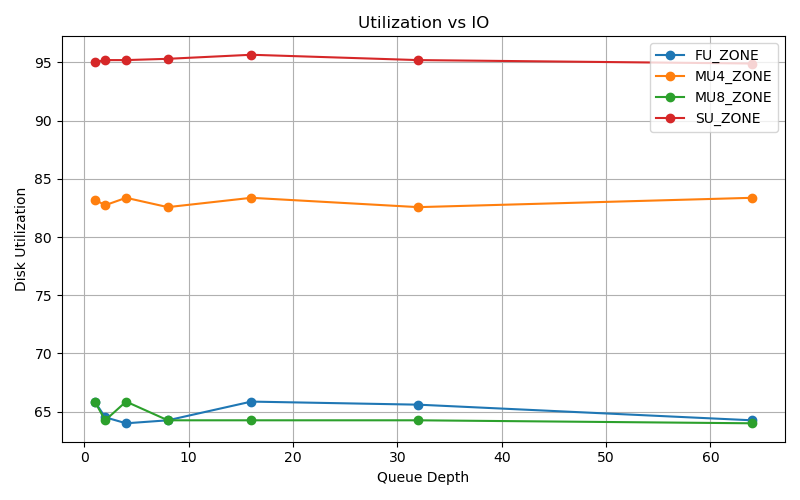
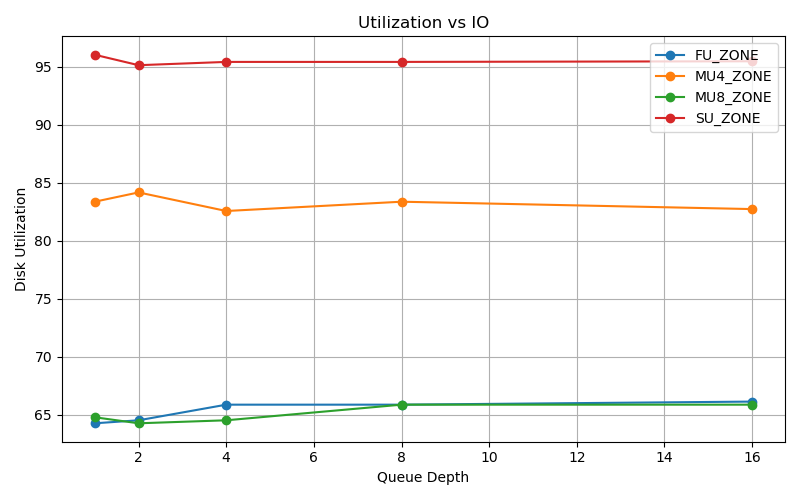
more graphs

diff --git a/scripts/graph_read_latency.py b/scripts/graph_read_latency.py
@@ -1,0 +1,49 @@
+import os
+import json
+import matplotlib.pyplot as plt
+
+BASE_DIR = "../results/csv"
+CONCURRENCY_LEVELS = [1, 2, 4, 8, 16]
+
+GEOMETRIES = ["FU_ZONE", "MU4_ZONE", "MU8_ZONE", "SU_ZONE"]
+MODES = ["rand_read", "seq_read"]
+
+def get_iops_from_file(filepath):
+    with open(filepath) as f:
+        data = json.load(f)
+        return ((data["jobs"][0]["read"]["clat_ns"]["mean"] + data["jobs"][0]["read"]["slat_ns"]["mean"]) / 1000)
+
+def collect_data(mode):
+    results = {}
+    for geometry in GEOMETRIES:
+        dir_name = f"{geometry}-{mode}"
+        full_path = os.path.join(BASE_DIR, dir_name)
+        y_values = []
+        for level in CONCURRENCY_LEVELS:
+            match_prefix = f"{mode}_{level}-"
+            filename = next((f for f in os.listdir(full_path) if f.startswith(match_prefix)), None)
+            if filename:
+                filepath = os.path.join(full_path, filename)
+                y_values.append(get_iops_from_file(filepath))
+            else:
+                y_values.append(0)
+        results[geometry] = y_values
+    return results
+
+def plot_data(results, mode):
+    plt.figure(figsize=(8, 5))
+    for geometry, y_values in results.items():
+        plt.plot(CONCURRENCY_LEVELS, y_values, marker='o', label=geometry)
+    plt.xlabel("Num Jobs")
+    plt.ylabel("Mean Read Latency (μs)")
+    plt.title(f"Read Latency vs Num Jobs")
+    plt.legend()
+    plt.grid(True)
+    plt.tight_layout()
+    plt.savefig(f"read-latency_{mode}.png")
+    plt.show()
+
+if __name__ == "__main__":
+    for mode in MODES:
+        data = collect_data(mode)
+        plot_data(data, mode)

diff --git a/scripts/graph_disk_util_reads.py b/scripts/graph_disk_util_reads.py
@@ -1,0 +1,50 @@
+import os
+import json
+import matplotlib.pyplot as plt
+
+# Second graph script to test disk utilization
+BASE_DIR = "../results/csv"
+CONCURRENCY_LEVELS = [1, 2, 4, 8, 16]
+
+GEOMETRIES = ["FU_ZONE", "MU4_ZONE", "MU8_ZONE", "SU_ZONE"]
+MODES = ["inter", "intra", "rand_read", "seq_read"]
+
+def get_disk_util_from_file(filepath):
+    with open(filepath) as f:
+        data = json.load(f)
+        return data["disk_util"][0]["util"]
+
+def collect_data(mode):
+    results = {}
+    for geometry in GEOMETRIES:
+        dir_name = f"{geometry}-{mode}"
+        full_path = os.path.join(BASE_DIR, dir_name)
+        y_values = []
+        for level in CONCURRENCY_LEVELS:
+            match_prefix = f"{mode}_{level}-"
+            filename = next((f for f in os.listdir(full_path) if f.startswith(match_prefix)), None)
+            if filename:
+                filepath = os.path.join(full_path, filename)
+                y_values.append(get_disk_util_from_file(filepath))
+            else:
+                y_values.append(0)
+        results[geometry] = y_values
+    return results
+
+def plot_data(results, mode):
+    plt.figure(figsize=(8, 5))
+    for geometry, y_values in results.items():
+        plt.plot(CONCURRENCY_LEVELS, y_values, marker='o', label=geometry)
+    plt.xlabel("Queue Depth")
+    plt.ylabel("Disk Utilization")
+    plt.title(f"Utilization vs IO")
+    plt.legend()
+    plt.grid(True)
+    plt.tight_layout()
+    plt.savefig(f"utilization_{mode}.png")
+    plt.show()
+
+if __name__ == "__main__":
+    for mode in MODES:
+        data = collect_data(mode)
+        plot_data(data, mode)

diff --git a/scripts/graph_read_throughput.py b/scripts/graph_read_throughput.py
@@ -1,0 +1,49 @@
+import os
+import json
+import matplotlib.pyplot as plt
+
+BASE_DIR = "../results/csv"
+CONCURRENCY_LEVELS = [1, 2, 4, 8, 16]
+
+GEOMETRIES = ["FU_ZONE", "MU4_ZONE", "MU8_ZONE", "SU_ZONE"]
+MODES = ["rand_read", "seq_read"]
+
+def get_iops_from_file(filepath):
+    with open(filepath) as f:
+        data = json.load(f)
+        return data["jobs"][0]["read"]["iops"]
+
+def collect_data(mode):
+    results = {}
+    for geometry in GEOMETRIES:
+        dir_name = f"{geometry}-{mode}"
+        full_path = os.path.join(BASE_DIR, dir_name)
+        y_values = []
+        for level in CONCURRENCY_LEVELS:
+            match_prefix = f"{mode}_{level}-"
+            filename = next((f for f in os.listdir(full_path) if f.startswith(match_prefix)), None)
+            if filename:
+                filepath = os.path.join(full_path, filename)
+                y_values.append(get_iops_from_file(filepath))
+            else:
+                y_values.append(0)
+        results[geometry] = y_values
+    return results
+
+def plot_data(results, mode):
+    plt.figure(figsize=(8, 5))
+    for geometry, y_values in results.items():
+        plt.plot(CONCURRENCY_LEVELS, y_values, marker='o', label=geometry)
+    plt.xlabel("Number of Jobs")
+    plt.ylabel("Throughput (IOPs)")
+    plt.title(f"Throughput vs Number of Jobs")
+    plt.legend()
+    plt.grid(True)
+    plt.tight_layout()
+    plt.savefig(f"throughput_{mode}.png")
+    plt.show()
+
+if __name__ == "__main__":
+    for mode in MODES:
+        data = collect_data(mode)
+        plot_data(data, mode)

diff --git a/scripts/graph_read_bandwidth.py b/scripts/graph_read_bandwidth.py
@@ -1,0 +1,49 @@
+import os
+import json
+import matplotlib.pyplot as plt
+
+BASE_DIR = "../results/csv"
+CONCURRENCY_LEVELS = [1, 2, 4, 8, 16]
+
+GEOMETRIES = ["FU_ZONE", "MU4_ZONE", "MU8_ZONE", "SU_ZONE"]
+MODES = ["rand_read", "seq_read"]
+
+def get_iops_from_file(filepath):
+    with open(filepath) as f:
+        data = json.load(f)
+        return data["jobs"][0]["read"]["bw"]
+
+def collect_data(mode):
+    results = {}
+    for geometry in GEOMETRIES:
+        dir_name = f"{geometry}-{mode}"
+        full_path = os.path.join(BASE_DIR, dir_name)
+        y_values = []
+        for level in CONCURRENCY_LEVELS:
+            match_prefix = f"{mode}_{level}-"
+            filename = next((f for f in os.listdir(full_path) if f.startswith(match_prefix)), None)
+            if filename:
+                filepath = os.path.join(full_path, filename)
+                y_values.append(get_iops_from_file(filepath))
+            else:
+                y_values.append(0)
+        results[geometry] = y_values
+    return results
+
+def plot_data(results, mode):
+    plt.figure(figsize=(8, 5))
+    for geometry, y_values in results.items():
+        plt.plot(CONCURRENCY_LEVELS, y_values, marker='o', label=geometry)
+    plt.xlabel("Queue Depth")
+    plt.ylabel("Bandwidth")
+    plt.title(f"Throughput vs Queue Depth")
+    plt.legend()
+    plt.grid(True)
+    plt.tight_layout()
+    plt.savefig(f"bandwidth_{mode}.png")
+    plt.show()
+
+if __name__ == "__main__":
+    for mode in MODES:
+        data = collect_data(mode)
+        plot_data(data, mode)
